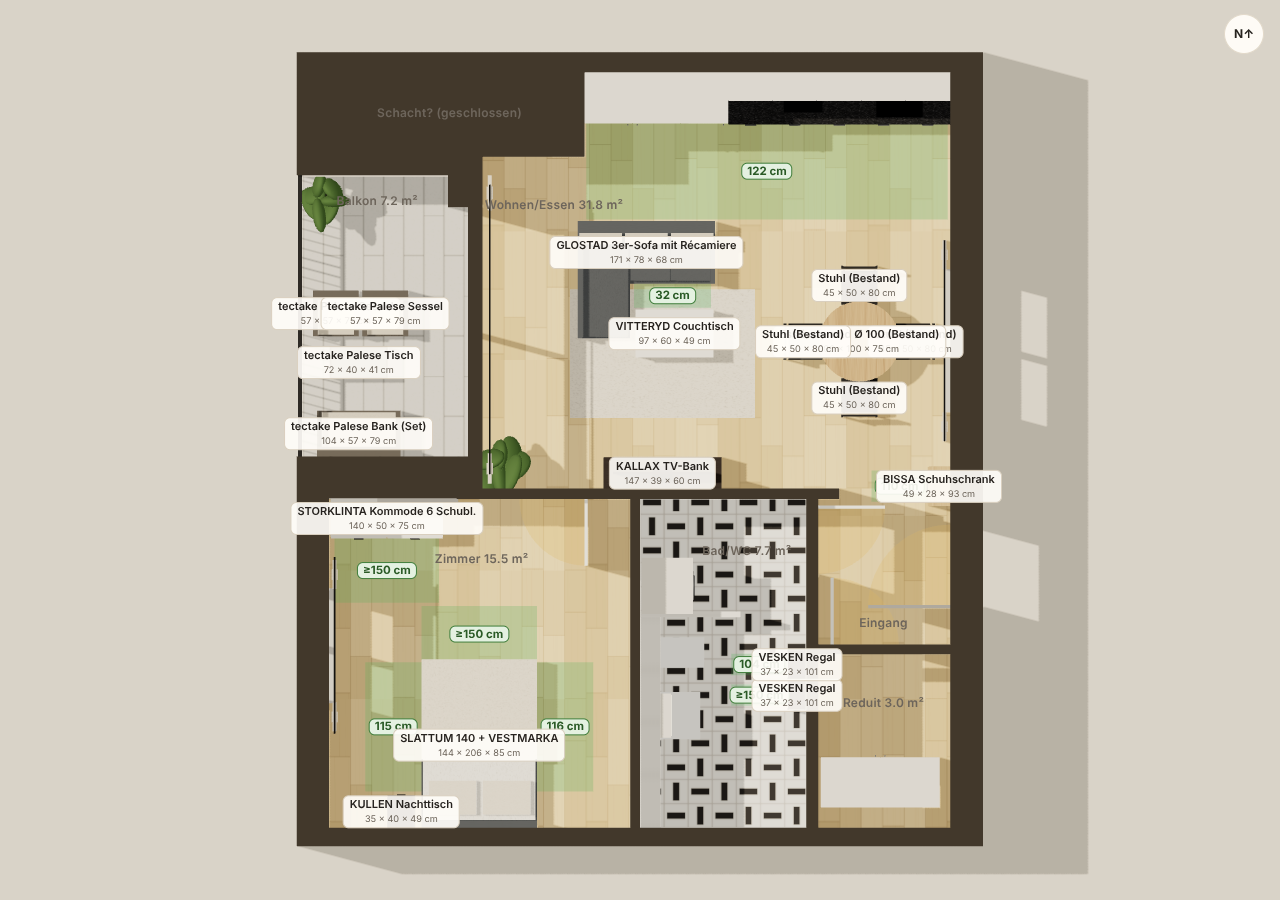
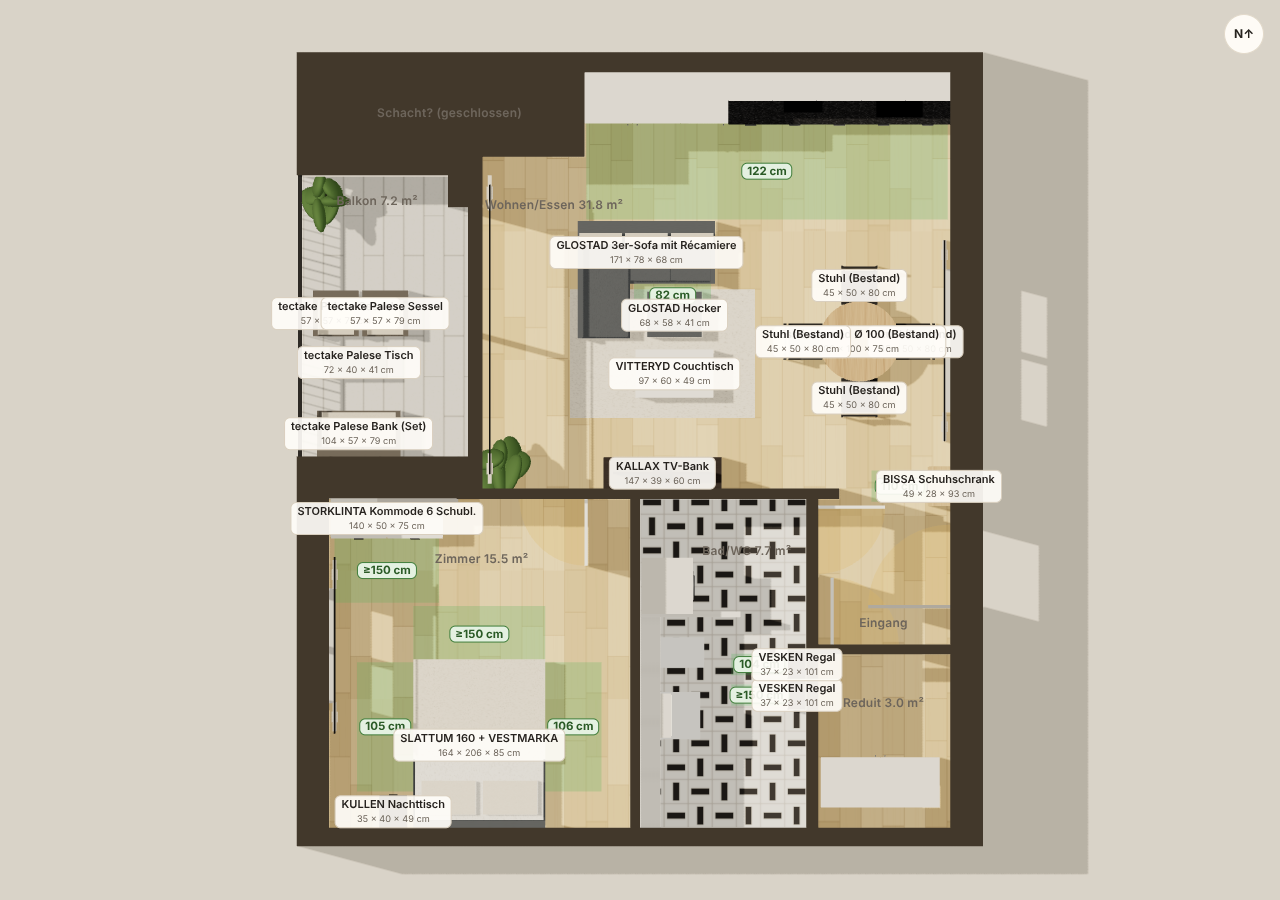
Bett auf 160 x 200 umgestellt, GLOSTAD Hocker ergänzt
Claude-Session: https://claude.ai/code/session_01B7nVvxssPerFU2U56rvuxh

diff --git a/einkaufsliste.html b/einkaufsliste.html
@@ -212,7 +212,7 @@
   <table>
     <thead><tr><th>Modell (IKEA neu)</th><th>Bezug</th><th>Masse B × T × H</th><th class="r">Preis</th><th>Einschätzung</th></tr></thead>
     <tbody>
-      <tr><td><a href="https://www.ikea.com/ch/de/p/glostad-3er-sofa-mit-recamiere-knisa-dunkelgrau-s89542669/"><b>GLOSTAD 3er-Sofa mit Récamiere (deine Wahl)</b></a></td><td>Knisa dunkelgrau</td><td class="num">171 × 78 × 68 cm, Récamiere 146 tief</td><td class="r num">CHF 199.00 <small>(statt 249)</small></td><td>Günstig, kompakt, mit Liegeteil. Im 3D-Modell 70 cm weiter Richtung Küche gerückt. Bis zum TV sind es jetzt ca. 2.6 m.</td></tr>
+      <tr><td><a href="https://www.ikea.com/ch/de/p/glostad-3er-sofa-mit-recamiere-knisa-dunkelgrau-s89542669/"><b>GLOSTAD 3er-Sofa mit Récamiere (deine Wahl)</b></a></td><td>Knisa dunkelgrau</td><td class="num">171 × 78 × 68 cm, Récamiere 146 tief</td><td class="r num">CHF 199.00 <small>(statt 249)</small></td><td>Günstig, kompakt, mit Liegeteil. Dazu der GLOSTAD Hocker 68 × 58 × 41 cm, Art.-Nr. 205.732.86, CHF 50 (bis 01.11. CHF 42.50). Im 3D-Modell 70 cm weiter Richtung Küche gerückt. Bis zum TV sind es jetzt ca. 2.6 m.</td></tr>
       <tr><td><a href="https://www.ikea.com/ch/de/p/soederhamn-3er-sofa-fridtuna-hellbeige-s89449690/">SÖDERHAMN 3er-Sofa</a></td><td>Fridtuna hellbeige</td><td class="num">198 × 99 × 83 cm</td><td class="r num">CHF 699.00</td><td>Passt am besten zum Stil: niedrig und modular. Der Bezug ist abnehmbar und waschbar.</td></tr>
       <tr><td><a href="https://www.ikea.com/ch/de/p/soederhamn-3er-sofa-blekinge-weiss-s29501761/">SÖDERHAMN 3er-Sofa</a></td><td>Blekinge weiss</td><td class="num">198 × 99 × 83 cm</td><td class="r num">CHF 599.00</td><td>Günstigster SÖDERHAMN-Bezug. Weiss ist allerdings heikel.</td></tr>
       <tr><td><a href="https://www.ikea.com/ch/de/p/kivik-3er-sofa-tresund-hellbeige-s89482830/">KIVIK 3er-Sofa</a></td><td>Tresund hellbeige</td><td class="num">228 × 95 × 83 cm</td><td class="r num">CHF 599.00 <small>(statt 699)</small></td><td>Tiefer und bequemer. Mit 2.28 m aber recht lang für die Wohnecke.</td></tr>
@@ -296,27 +296,27 @@ const CATS = [
     alt: 'Für mehr Schuhe: zweimal BISSA nebeneinander (CHF 59.90), oder HEMNES Schuhschrank 2fach 89 × 30 × 127 cm für CHF 169.00 (Massivholz, sehr gut wiederverkäuflich, aber teuer).'
   },
   {
-    id: 'bett', name: 'Bett 140 × 200', where: 'Schlafzimmer', rec: 'ikea',
-    ikea: { name: 'SLATTUM Bettgestell gepolstert, Vissle dunkelgrau, 140×200 (deine Wahl)', price: 149.00, priceNote: 'Lattenrost und Mittelbalken laut IKEA dabei (auf der Produktseite prüfen). Als 160er CHF 169.00', dims: '144 × 206 cm, Kopfteil 85 cm, Fussteil 40 cm',
-      url: 'https://www.ikea.com/ch/de/p/slattum-bettgestell-gepolstert-vissle-dunkelgrau-00571245/',
-      avail: 'Standardsortiment, Mitnahme (1 Paket, 155 cm lang, 34 kg)', resale: [50, 80] },
-    gal: { name: 'vidaXL Legenborn Polsterbett 140×200 (deine Merkliste)', price: 125.01, priceNote: 'gesehen CHF 123–131 je nach Farbe', dims: '145 × 218 × 74.5 cm',
-      url: 'https://www.galaxus.ch/en/s14/product/vidaxl-legenborn-140-x-200-cm-bed-43480100',
-      avail: 'Drittanbieter vidaXL CH, ca. 1–2 Wochen. Bewertung 3.2/5', resale: [25, 40] },
-    why: 'Deine Wahl: SLATTUM ist nur CHF 24 teurer als das Legenborn, bringt den Lattenrost mit und ist bei IKEA nachkaufbar und bekannt. Im 3D-Modell bleiben mit dem 140er neben dem Bett je ca. 115 cm frei.',
-    alt: '<b>140 bestätigt.</b> Die 160er-Variante würde zusammen CHF 50 mehr kosten (Bett CHF 20, Matratze CHF 30). Allein reicht 140 gut, zu zweit wird es eng. Holz-Alternative: MALM Eichenfurnier 160×200 für CHF 259 plus LURÖY CHF 40 (<a href="https://www.ikea.com/ch/de/p/malm-bettgestell-hoch-eichenfurnier-weiss-lasiert-s19022549/">Link</a>).'
+    id: 'bett', name: 'Bett 160 × 200', where: 'Schlafzimmer', rec: 'ikea',
+    ikea: { name: 'SLATTUM Bettgestell gepolstert, Vissle dunkelgrau, 160×200 (deine Wahl)', price: 169.00, priceNote: 'Lattenrost und Mittelbalken laut IKEA dabei (auf der Produktseite prüfen)', dims: '164 × 206 cm, Kopfteil 85 cm, Fussteil 40 cm',
+      url: 'https://www.ikea.com/ch/de/p/slattum-bettgestell-gepolstert-vissle-dunkelgrau-40571248/',
+      avail: 'Standardsortiment, Mitnahme (1 Paket, ca. 34 kg)', resale: [60, 100] },
+    gal: { name: 'vidaXL Legenborn Polsterbett 160×200', price: 147.01, priceNote: 'je nach Farbe CHF 146–172', dims: '165 × 218 × 74.5 cm',
+      url: 'https://www.galaxus.ch/en/s14/product/vidaxl-legenborn-160-x-200-cm-bed-43479803',
+      avail: 'Drittanbieter vidaXL CH, ca. 1–2 Wochen. Bewertung 3.2/5', resale: [30, 50] },
+    why: 'Deine Wahl: 160 cm, weil es sich besser weiterverkauft und für Besuch zu zweit reicht. Der Aufpreis gegenüber 140 beträgt total CHF 50. Im 3D-Modell bleiben neben dem Bett je ca. 105 cm frei.',
+    alt: 'Bettwäsche in 160×200 bzw. Decke 160×210 oder 200×210 einplanen. Holz-Alternative: MALM Eichenfurnier 160×200 für CHF 259 plus LURÖY CHF 40 (<a href="https://www.ikea.com/ch/de/p/malm-bettgestell-hoch-eichenfurnier-weiss-lasiert-s19022549/">Link</a>).'
   },
   {
     id: 'matratze', name: 'Matratze', where: 'Schlafzimmer', rec: 'ikea',
-    ikea: { name: 'VESTMARKA Federkernmatratze mittelfest, 140×200 (deine Wahl)', price: 189.00, priceNote: '160×200: CHF 219.00', dims: '140 × 200 × 18 cm, Bonell-Federkern',
-      url: 'https://www.ikea.com/ch/de/p/vestmarka-federkernmatratze-mittelfest-hellblau-70451287/',
+    ikea: { name: 'VESTMARKA Federkernmatratze mittelfest, 160×200 (deine Wahl)', price: 219.00, priceNote: 'Art.-Nr. 504.512.93 (laut DE/AT-Seiten, in der App prüfen)', dims: '160 × 200 × 18 cm, Bonell-Federkern',
+      url: 'https://www.ikea.com/ch/de/cat/federkernmatratzen-24828/f/federkernmatratzen-160x200-si024/',
       avail: 'Gerollt zum Mitnehmen. 90 Tage Umtausch, 10 Jahre Garantie', resale: [0, 40] },
-    gal: { name: 'vidaXL Labelia Taschenfederkern 140×200 + Floki24 Rollrost 140×200', price: 330.00, priceNote: 'Preis vom 160er (CHF 262 + 68). Den 140er-Preis fand ich nicht, er dürfte etwas tiefer liegen', dims: 'Matratze 140 × 200 cm (Höhe auf Produktseite prüfen). Rollrost 140 × 200 cm',
-      url: 'https://www.galaxus.ch/de/search?q=vidaXL%20Labelia%20140',
+    gal: { name: 'vidaXL Labelia Taschenfederkern 160×200 + Floki24 Rollrost 160×200', price: 330.00, priceNote: 'Matratze CHF 262 + Rollrost CHF 68', dims: 'Matratze 160 × 200 cm (Höhe auf Produktseite prüfen). Rollrost 160 × 200 cm',
+      url: 'https://www.galaxus.ch/de/search?q=vidaXL%20Labelia%20160',
       url2: 'https://www.galaxus.ch/de/s14/product/floki24-lattenrost-140-x-200-cm-rolllattenrost-kiefer-massivholz-bett-rollrost-lattenrost-52962738',
       avail: 'Versand. Härtegrad der Labelia nicht angegeben, kein Probeschlafen', resale: [0, 30] },
     why: 'VESTMARKA ist die einfache Federkernmatratze von IKEA. Für 1.5–2 Jahre ist das vertretbar, und dank 90 Tagen Umtausch kannst du auf VALEVÅG wechseln, falls sie dir zu hart oder zu weich ist. Einen Lattenrost brauchst du dank SLATTUM nicht.',
-    alt: 'Mehr Komfort: VALEVÅG Taschenfederkern 140×200, als 160er CHF 349 (<a href="https://www.ikea.com/ch/de/p/valevag-taschenfederkernmatratze-mittelfest-hellblau-10450667/">Link</a>). Bei Galaxus: Falls das Legenborn einen Lattenrost mitbringt, entfällt der Rollrost.'
+    alt: 'Mehr Komfort: VALEVÅG Taschenfederkern 160×200, CHF 349 (<a href="https://www.ikea.com/ch/de/p/valevag-taschenfederkernmatratze-mittelfest-hellblau-10450667/">Link</a>). Bei Galaxus: Falls das Legenborn einen Lattenrost mitbringt, entfällt der Rollrost.'
   },
   {
     id: 'nacht', name: 'Nachttisch', where: 'Schlafzimmer', rec: 'ikea',
@@ -442,7 +442,7 @@ const SOURCES = [
 const fmt = n => 'CHF ' + n.toFixed(2).replace(/\B(?=(\d{3})+(?!\d))/g, "'");
 const fmt0 = n => 'CHF ' + Math.round(n).toString().replace(/\B(?=(\d{3})+(?!\d))/g, "'");
 const BUDGET = 1500;
-const KEY = 'kesslerplatz-einkauf-v3';
+const KEY = 'kesslerplatz-einkauf-v4';
 
 let state = { pick: {}, extras: {} };
 try { const s = JSON.parse(localStorage.getItem(KEY)); if (s && s.pick) state = s; } catch (e) {}

diff --git a/wohnung-3d.html b/wohnung-3d.html
@@ -287,9 +287,11 @@ const CAT = {
   // IKEA
   bissa: { name: 'BISSA Schuhschrank', shop: 'IKEA', price: 29.95, w: 0.49, d: 0.28, h: 0.93, kind: 'cabinet', mat: 'oak', fronts: [1, 1],
     clear: { front: [0.6, 0.7] }, access: 'front', url: IK + 'bissa-schuhschrank-2fach-eichenachbildung-70530218/' },
-  slattum: { name: 'SLATTUM 140 + VESTMARKA', shop: 'IKEA', price: 338.00, w: 1.44, d: 2.06, h: 0.85, kind: 'bed', mat: 'fabricGrey',
-    frameH: 0.30, footH: 0.40, mattress: [1.40, 2.00, 0.18], clear: { sides: [0.6, 0.7], foot: [0.6, 0.7] }, access: 'bed',
-    url: IK + 'slattum-bettgestell-gepolstert-vissle-dunkelgrau-00571245/' },
+  slattum: { name: 'SLATTUM 160 + VESTMARKA', shop: 'IKEA', price: 388.00, w: 1.64, d: 2.06, h: 0.85, kind: 'bed', mat: 'fabricGrey',
+    frameH: 0.30, footH: 0.40, mattress: [1.60, 2.00, 0.18], clear: { sides: [0.6, 0.7], foot: [0.6, 0.7] }, access: 'bed',
+    url: IK + 'slattum-bettgestell-gepolstert-vissle-dunkelgrau-40571248/' },
+  glostadHocker: { name: 'GLOSTAD Hocker', shop: 'IKEA', price: 50.00, w: 0.68, d: 0.58, h: 0.41, kind: 'cabinet', mat: 'fabricGrey', fronts: [],
+    footrest: true, url: IK + 'glostad-hocker-knisa-dunkelgrau-20573286/' },
   kullen: { name: 'KULLEN Nachttisch', shop: 'IKEA', price: 39.95, w: 0.35, d: 0.40, h: 0.49, kind: 'cabinet', mat: 'blackBrown', fronts: [1, 1],
     type: 'nightstand', url: IK + 'kullen-kommode-mit-2-schubladen-schwarzbraun-60322130/' },
   storklinta: { name: 'STORKLINTA Kommode 6 Schubl.', shop: 'IKEA', price: 149.00, w: 1.40, d: 0.50, h: 0.75, kind: 'cabinet', mat: 'white',
@@ -309,9 +311,9 @@ const CAT = {
   // Galaxus
   oklahoma: { name: 'Vasagle Oklahoma Schuhregal', shop: 'Galaxus', price: 36.90, w: 0.75, d: 0.28, h: 0.93, kind: 'rack', mat: 'white', frame: 'steel',
     clear: { front: [0.6, 0.7] }, access: 'front', url: 'https://www.galaxus.ch/de/search?q=Vasagle%20Oklahoma' },
-  legenborn: { name: 'vidaXL Legenborn 140 + Matratze', shop: 'Galaxus', price: 455.01, w: 1.45, d: 2.18, h: 0.745, kind: 'bed', mat: 'fabricDark',
-    frameH: 0.30, footH: 0.30, mattress: [1.40, 2.00, 0.20], clear: { sides: [0.6, 0.7], foot: [0.6, 0.7] }, access: 'bed',
-    url: 'https://www.galaxus.ch/en/s14/product/vidaxl-legenborn-140-x-200-cm-bed-43480100' },
+  legenborn: { name: 'vidaXL Legenborn 160 + Matratze', shop: 'Galaxus', price: 477.01, w: 1.65, d: 2.18, h: 0.745, kind: 'bed', mat: 'fabricDark',
+    frameH: 0.30, footH: 0.30, mattress: [1.60, 2.00, 0.20], clear: { sides: [0.6, 0.7], foot: [0.6, 0.7] }, access: 'bed',
+    url: 'https://www.galaxus.ch/en/s14/product/vidaxl-legenborn-160-x-200-cm-bed-43479803' },
   caleb: { name: 'Skye Decor Caleb Nachttisch', shop: 'Galaxus', price: 26.90, w: 0.25, d: 0.27, h: 0.60, kind: 'cabinet', mat: 'woodLight', fronts: [1],
     legs: 0.12, type: 'nightstand', url: 'https://www.galaxus.ch/de/search?q=Skye%20Decor%20Caleb' },
   ingrid: { name: 'Songmics Ingrid Kommode', shop: 'Galaxus', price: 49.50, w: 0.988, d: 0.30, h: 0.737, kind: 'fabricDrawers', mat: 'fabricBrown', frame: 'steel',
@@ -345,10 +347,11 @@ const DEFAULTS = {
     ...SHARED,
     { id: 'schuh', cat: 'bissa', x: 7.99, z: 5.40, rot: -90 },
     { id: 'bett', cat: 'slattum', x: 2.27, z: 8.62, rot: 180 },
-    { id: 'nacht', cat: 'kullen', x: 1.30, z: 9.45, rot: 180 },
+    { id: 'nacht', cat: 'kullen', x: 1.20, z: 9.45, rot: 180 },
     { id: 'kommode', cat: 'storklinta', x: 1.12, z: 5.80, rot: 0 },
     { id: 'tv', cat: 'kallax', x: 4.55, z: 5.235, rot: 180 },
-    { id: 'couchtisch', cat: 'vitteryd', x: 4.70, z: 3.50, rot: 0 },
+    { id: 'couchtisch', cat: 'vitteryd', x: 4.70, z: 4.00, rot: 0 },
+    { id: 'hocker', cat: 'glostadHocker', x: 4.70, z: 3.27, rot: 0 },
     { id: 'bbank', cat: 'paleseBench', x: 0.77, z: 4.745, rot: 180 },
     { id: 'btisch', cat: 'paleseTable', x: 0.77, z: 3.86, rot: 0 },
     { id: 'bsessel1', cat: 'paleseChair', x: 0.485, z: 3.25, rot: 0 },
@@ -360,7 +363,7 @@ const DEFAULTS = {
     ...SHARED,
     { id: 'schuh', cat: 'oklahoma', x: 7.99, z: 5.40, rot: -90 },
     { id: 'bett', cat: 'legenborn', x: 2.27, z: 8.56, rot: 180 },
-    { id: 'nacht', cat: 'caleb', x: 1.38, z: 9.515, rot: 180 },
+    { id: 'nacht', cat: 'caleb', x: 1.29, z: 9.515, rot: 180 },
     { id: 'kommode', cat: 'ingrid', x: 4.00, z: 7.00, rot: -90 },
     { id: 'tv', cat: 'bianca', x: 4.55, z: 5.23, rot: 180 },
     { id: 'couchtisch', cat: 'vasagleRound', x: 4.70, z: 3.60, rot: 0 },
@@ -375,7 +378,7 @@ const DEFAULTS = {
 // ---------------------------------------------------------------------------
 // Zustand (localStorage nur als Komfort)
 // ---------------------------------------------------------------------------
-const STORE = 'kesslerplatz-3d-v3';
+const STORE = 'kesslerplatz-3d-v4';
 let saved = {};
 try { saved = JSON.parse(localStorage.getItem(STORE)) || {}; } catch (e) { saved = {}; }
 const state = {
@@ -850,7 +853,7 @@ const lampGroup = new THREE.Group(); scene.add(lampGroup);     // nur innen sich
   const bamboo = M(0xd8b47c, { map: grainTex, roughness: 0.7, emissive: 0x6b4a1c, emissiveIntensity: 0.6 });
   const paper = M(0xfbf7ee, { emissive: 0xffe6c0, emissiveIntensity: 0.9, roughness: 1 });
   const sg = new THREE.SphereGeometry(0.33, 28, 18); sg.scale(1, 0.72, 1);
-  pendant(4.70, 3.50, 0.75, sg, bamboo, 7);
+  pendant(4.70, 3.70, 0.75, sg, bamboo, 7);
   pendant(7.0, 3.6, 0.95, new THREE.CylinderGeometry(0.1, 0.22, 0.26, 28, 1, true), bamboo, 5);
   pendant(2.3, 7.3, 0.45, new THREE.SphereGeometry(0.28, 28, 18), paper, 6);
   pendant(7.3, 6.4, 0.4, new THREE.SphereGeometry(0.2, 24, 16), paper, 3);
@@ -1280,7 +1283,9 @@ function evaluate(withPaths = true) {
       if (side === 'left') return obbPoly(s.x, s.z, 0, 0, s.rot, -c.w / 2 - d, lx0, -c.w / 2, lx1);
       return obbPoly(s.x, s.z, 0, 0, s.rot, c.w / 2, lx0, c.w / 2 + d, lx1);
     };
-    const depth = freeDepth(fn, new Set([it.id]));
+    const skip = new Set([it.id]);
+    if (c.kind.startsWith('sofa')) activeItems().forEach(o => { if (o.c.footrest) skip.add(o.id); });
+    const depth = freeDepth(fn, skip);
     const sev = depth < rule[0] ? 'red' : depth < rule[1] ? 'amber' : 'ok';
     strips.push({ poly: fn(Math.min(depth, rule[1])), depth, sev, it, name, rule });
     if (name === 'Seite') { // Himmelsrichtung der Seite angeben
